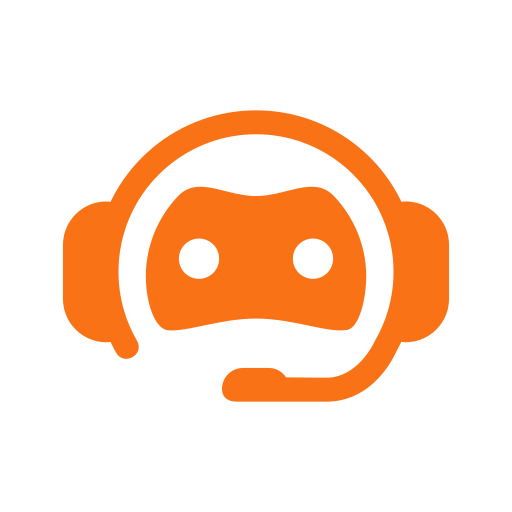
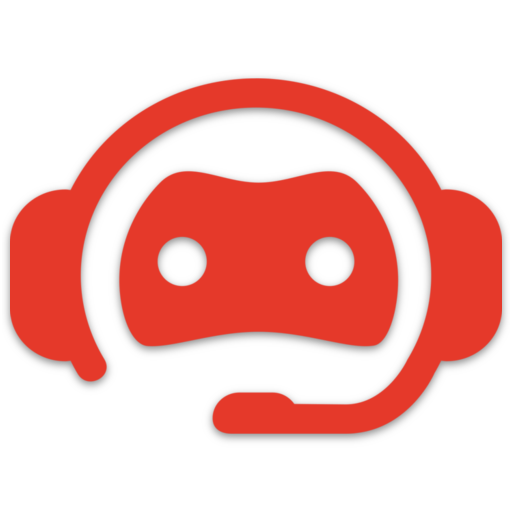
💄 Change the primary brand color

diff --git a/tailwind.config.js b/tailwind.config.js
@@ -16,7 +16,20 @@ module.exports = {
         sans: ['Inter', 'sans-serif'],
       },
       colors: {
-        primary: colors.orange,
+        primary: {
+          DEFAULT: '#e5392a',
+          50: '#f9d1cd',
+          100: '#f7c0bb',
+          200: '#f29e97',
+          300: '#ee7d72',
+          400: '#e95b4e',
+          500: '#e5392a',
+          600: '#bf2518',
+          700: '#8d1c11',
+          800: '#5b120b',
+          900: '#290805',
+          950: '#100302',
+        },
       },
     },
   },

diff --git a/app/Http/Middleware/AddSeoDefaults.php b/app/Http/Middleware/AddSeoDefaults.php
@@ -48,16 +48,16 @@ class AddSeoDefaults
 
             LinkMeta::make()
                 ->rel('mask-icon')
-                ->attr('color', '#f97316')
+                ->attr('color', '#e5392a')
                 ->href('/safari-pinned-tab.svg'),
 
             Meta::make()
                 ->name('theme-color')
-                ->content('#f97316'),
+                ->content('#e5392a'),
 
             Meta::make()
                 ->name('msapplication-TileColor')
-                ->content('#f97316'),
+                ->content('#e5392a'),
 
             OpenGraph::make()
                 ->property('title')

diff --git a/config/livewire.php b/config/livewire.php
@@ -128,7 +128,7 @@ return [
 
     'navigate' => [
         'show_progress_bar' => true,
-        'progress_bar_color' => '#f97316',
+        'progress_bar_color' => '#e5392a',
     ],
 
     /*
